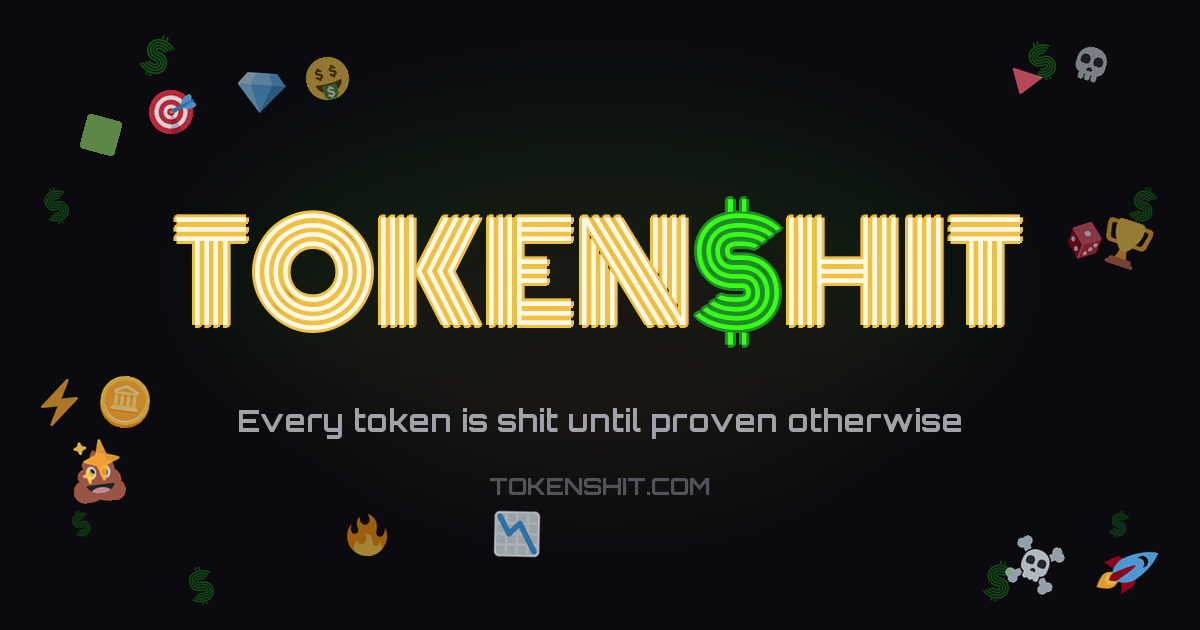
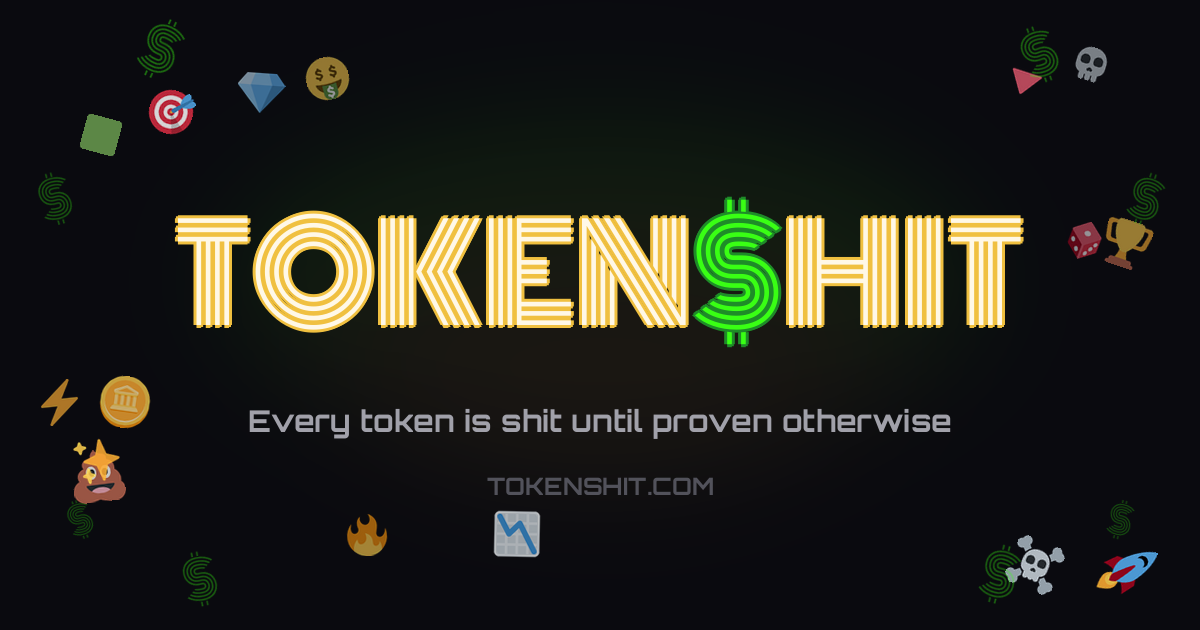
fix: remove incorrect $ mark assets from brand + system
Drop logo-mark PNGs; brand page uses square logos; favicon/manifest
→ logo-square / icon-512; OG stamps use Monoton $ not mark file.

diff --git a/src/app/brand/page.tsx b/src/app/brand/page.tsx
@@ -117,7 +117,7 @@ export default function BrandPage() {
               ["Logo PNG", BRAND.logo.assets.logoPng],
               ["Transparent", BRAND.logo.assets.logoTransparent],
               ["Square", BRAND.logo.assets.logoSquare],
-              ["$ mark", BRAND.logo.assets.logoMark],
+              ["Square clear", BRAND.logo.assets.logoSquareTransparent],
             ] as const
           ).map(([label, src]) => (
             <a
@@ -354,7 +354,7 @@ export default function BrandPage() {
               ["Transparent", BRAND.logo.assets.logoTransparent],
               ["Wide", BRAND.logo.assets.logoWide],
               ["Square", BRAND.logo.assets.logoSquare],
-              ["$ mark", BRAND.logo.assets.logoMark],
+              ["Square clear", BRAND.logo.assets.logoSquareTransparent],
               ["X banner", BRAND.logo.assets.xBanner],
               ["Hour poster", BRAND.logo.assets.hitShitHourPoster],
               ["Hour poster @2x", BRAND.logo.assets.hitShitHourPoster2x],

diff --git a/src/lib/seo.ts b/src/lib/seo.ts
@@ -4,7 +4,7 @@ import { SHIT_MINT, SHIT_SYMBOL, TREASURY_ADDRESS, X_HANDLE } from "@/lib/shit-t
 
 const SITE = "https://tokenshit.com";
 /** Cache-bust when OG pack regenerates */
-const OG_V = "6";
+const OG_V = "7";
 
 export type OgKey =
   | "default"
@@ -93,7 +93,7 @@ export const defaultMetadata: Metadata = {
     icon: [
       { url: "/icons/icon-192.png", sizes: "192x192", type: "image/png" },
       { url: "/icons/icon-512.png", sizes: "512x512", type: "image/png" },
-      { url: "/brand/logo-mark-dark.png", type: "image/png" },
+      { url: "/brand/logo-square.png", type: "image/png" },
     ],
     apple: [
       { url: "/icons/icon-192.png", sizes: "192x192", type: "image/png" },
@@ -197,7 +197,7 @@ export function siteJsonLd() {
         "@id": `${SITE}/#org`,
         name: "TOKEN$HIT",
         url: SITE,
-        logo: `${SITE}/brand/logo-mark.png`,
+        logo: `${SITE}/brand/logo-square.png`,
         sameAs: [`https://x.com/${X_HANDLE}`],
       },
       {

diff --git a/src/lib/brand.ts b/src/lib/brand.ts
@@ -76,8 +76,6 @@ export const BRAND = {
       logoWide: "/brand/logo-wide.png",
       logoSquare: "/brand/logo-square.png",
       logoSquareTransparent: "/brand/logo-square-transparent.png",
-      logoMark: "/brand/logo-mark.png",
-      logoMarkDark: "/brand/logo-mark-dark.png",
       logoRoot: "/logo.png",
       iconSvg: "/brand/icon.svg",
       squareSolid: "/brand/square-solid.png",

diff --git a/scripts/generate-og-pack.py b/scripts/generate-og-pack.py
@@ -212,7 +212,6 @@ def make(
     route_title: str | None,
     subtitle: str,
     url: str,
-    mark: Image.Image | None,
     icons: list[Image.Image],
     twemoji: list[Image.Image],
 ) -> None:
@@ -232,28 +231,34 @@ def make(
             break
         paste_rgba(base, pool[i % len(pool)], x, y, opacity=op, rotate=rot, size=size)
 
-    if mark is not None:
-        for x, y, s, r, o in [
-            (160, 50, 56, -25, 0.32),
-            (1040, 55, 52, 20, 0.3),
-            (55, 200, 48, 15, 0.26),
-            (1145, 200, 48, -18, 0.26),
-            (200, 580, 50, 12, 0.28),
-            (1000, 575, 54, -15, 0.28),
-            (80, 520, 36, 18, 0.24),
-            (1120, 520, 36, -14, 0.24),
-        ]:
-            paste_rgba(base, mark, x, y, opacity=o, rotate=r, size=s)
+    draw = ImageDraw.Draw(base)
+
+    # Neon Monoton $ stamps (no logo-mark asset — incorrect art removed)
+    dollar = load_font("Monoton-Regular.ttf", 64)
+    for x, y, s, r, o in [
+        (160, 50, 56, -25, 0.35),
+        (1040, 55, 52, 20, 0.32),
+        (55, 200, 48, 15, 0.28),
+        (1145, 200, 48, -18, 0.28),
+        (200, 580, 50, 12, 0.3),
+        (1000, 575, 54, -15, 0.3),
+        (80, 520, 36, 18, 0.25),
+        (1120, 520, 36, -14, 0.25),
+    ]:
+        # temp layer for rotated $
+        layer = Image.new("RGBA", (W, H), (0, 0, 0, 0))
+        ld = ImageDraw.Draw(layer)
+        f = load_font("Monoton-Regular.ttf", s)
+        ld.text((x, y), "$", font=f, fill=(*NEON, int(255 * o)), anchor="mm")
+        layer = layer.rotate(r, center=(x, y), resample=Image.Resampling.BICUBIC)
+        base = Image.alpha_composite(base, layer)
 
     draw = ImageDraw.Draw(base)
     orbit_md = load_font("Orbitron-Bold.ttf", 30)
     orbit_sm = load_font("Orbitron-Bold.ttf", 24)
 
     if route_title:
-        # Small brand lockup top
         draw_brand_lockup(draw, load_font("Monoton-Regular.ttf", 64), 100)
-
-        # HUGE route title — dead center
         hero = fit_monoton(route_title, start=168, min_size=96, max_w=1100)
         hero_cy = 300
         for dx, dy in [(-5, 0), (5, 0), (0, -5), (0, 5), (-3, -3), (3, 3)]:
@@ -271,16 +276,13 @@ def make(
             fill=NEON,
             anchor="mm",
         )
-
         sub_cy = 430
         url_cy = 490
     else:
-        # Home / default — big brand lockup only
         draw_brand_lockup(draw, load_font("Monoton-Regular.ttf", 132), 275)
         sub_cy = 420
         url_cy = 485
 
-    # Subtitle
     sub_font = orbit_md
     if text_w(sub_font, subtitle) > 1020:
         sub_font = orbit_sm
@@ -308,11 +310,6 @@ def make(
 
 def main() -> None:
     OUT.mkdir(parents=True, exist_ok=True)
-    mark = None
-    for p in [ROOT / "logo-mark.png", ROOT / "logo-mark-dark.png"]:
-        if p.exists():
-            mark = Image.open(p).convert("RGBA")
-            break
 
     icons = load_local_icons()
     twemoji: list[Image.Image] = []
@@ -324,7 +321,7 @@ def main() -> None:
     print(f"icons local={len(icons)} twemoji={len(twemoji)}")
 
     for key, title, sub, url in ROUTES:
-        make(key, title, sub, url, mark, icons, twemoji)
+        make(key, title, sub, url, icons, twemoji)
 
     shutil.copy(OUT / "default.png", ROOT / "og-share.png")
     shutil.copy(OUT / "default.png", ROOT / "og-image.png")

diff --git a/public/brand/BRAND.md b/public/brand/BRAND.md
@@ -82,8 +82,6 @@ Don't: hashtags on X, auto-post, lame daily meme spam, corporate announce-speak.
 | Logo wide 2400×600 | `/brand/logo-wide.png` |
 | Logo square 1024 | `/brand/logo-square.png` |
 | Logo square transparent | `/brand/logo-square-transparent.png` |
-| $ mark | `/brand/logo-mark.png` |
-| $ mark dark | `/brand/logo-mark-dark.png` |
 | Root alias | `/logo.png` |
 | Icon SVG | `/brand/icon.svg` |
 | X banner 1500×500 | `/brand/x-banner.jpg` |
